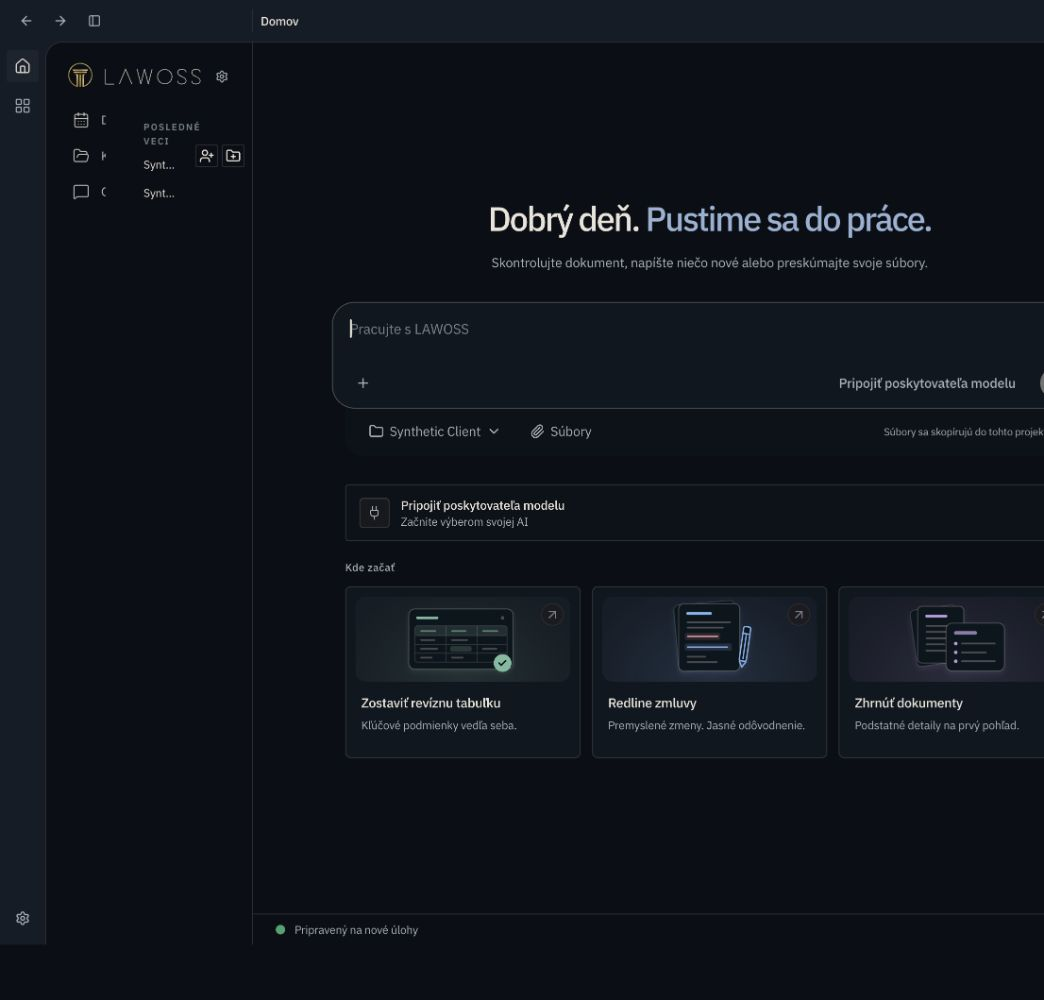
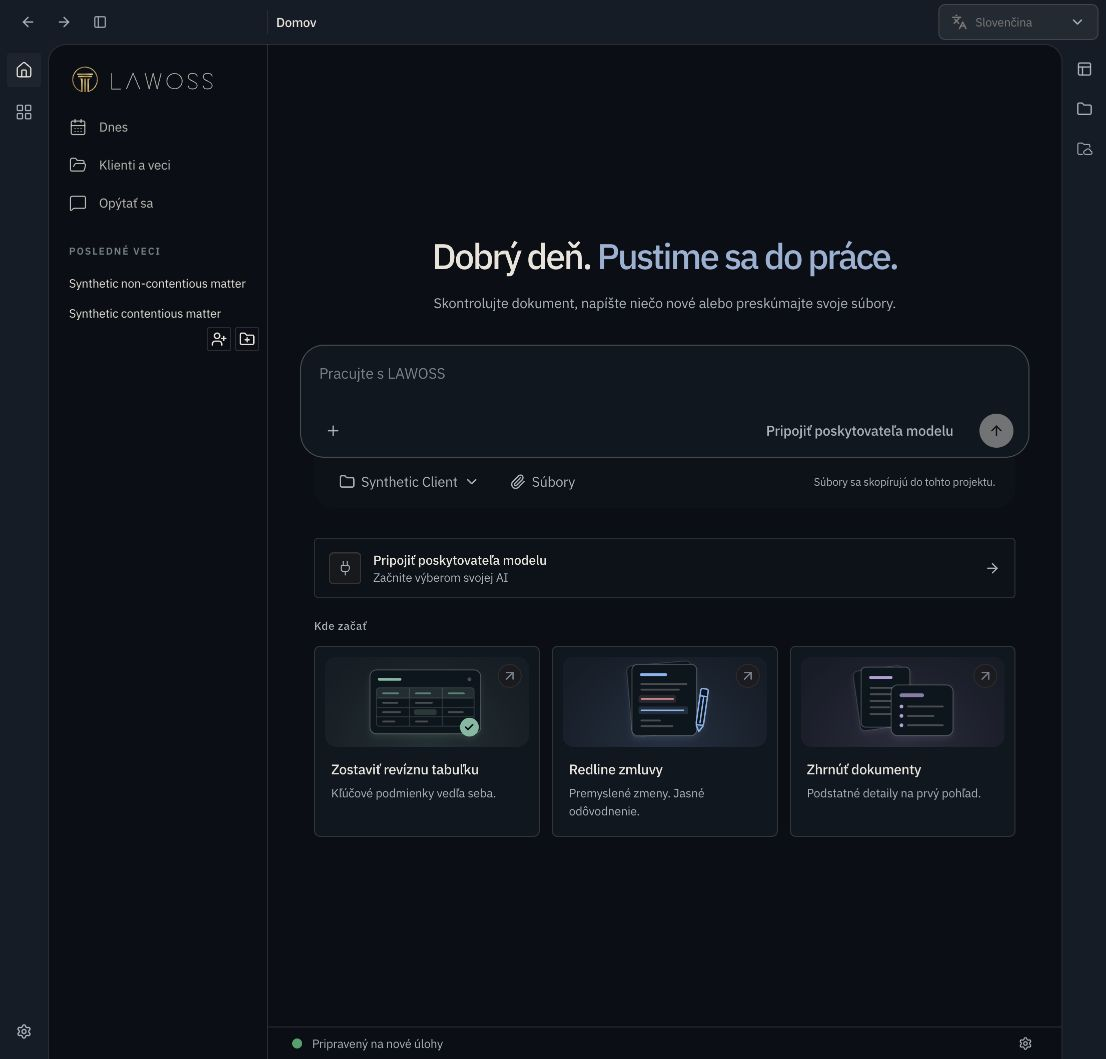
fix: opraviť klonovanie na Windows a rozloženie panela

diff --git a/lawoss/okf/bundle/okf.js b/lawoss/okf/bundle/okf.js
@@ -2408,7 +2408,7 @@ import { dirname as dirname4, isAbsolute as isAbsolute4, join as join8, relative
 // src/onboarding/entities.ts
 import { lstat as lstat4, readFile as readFile2, realpath as realpath4 } from "node:fs/promises";
 import { createHash as createHash4 } from "node:crypto";
-import { join as join6, resolve as resolve4 } from "node:path";
+import { basename as basename3, join as join6, resolve as resolve4 } from "node:path";
 
 // ../okf-pamat/src/store.ts
 import { existsSync as existsSync2, lstatSync, mkdirSync, readFileSync as readFileSync2, readdirSync, renameSync, rmSync, writeFileSync } from "node:fs";
@@ -2598,7 +2598,7 @@ async function planExistingClient(root, mode, cloneParent, map) {
   }
   if (!cloneParent)
     throw new Error("Trial clone parent is required.");
-  const target = join6(cloneParent, `${safeSegment(inspection.root.split("/").pop() ?? "client")} (trial ${new Date().toISOString().slice(0, 10)})`);
+  const target = join6(cloneParent, `${safeSegment(basename3(inspection.root) || "client")} (trial ${new Date().toISOString().slice(0, 10)})`);
   return { mode, appFiles: "inside", source: inspection.root, sourceDigest: inspection.digest, target, trial: true };
 }
 
@@ -2748,7 +2748,7 @@ async function applyTrialClone(preview, journalDirectory, resume = false) {
           await copyFile(sourcePath, target, constants4.COPYFILE_EXCL);
           if (await fileDigest(target) !== entry.digest)
             throw new Error("Trial copy digest mismatch.");
-          const handle = await open4(target, constants4.O_RDONLY | constants4.O_NOFOLLOW);
+          const handle = await open4(target, (process.platform === "win32" ? constants4.O_RDWR : constants4.O_RDONLY) | constants4.O_NOFOLLOW);
           try {
             await handle.sync();
           } finally {
@@ -3220,7 +3220,7 @@ var ENTITY_TYPES2 = ["klient", "spis", "projekt"];
 
 // src/fs.ts
 import { existsSync as existsSync3, lstatSync as lstatSync2, mkdirSync as mkdirSync2, readdirSync as readdirSync2, readFileSync as readFileSync3, statSync, writeFileSync as writeFileSync2 } from "node:fs";
-import { basename as basename3, dirname as dirname6, join as join9, relative as relative6, resolve as resolve8, sep as sep7 } from "node:path";
+import { basename as basename4, dirname as dirname6, join as join9, relative as relative6, resolve as resolve8, sep as sep7 } from "node:path";
 function readText(path) {
   return readFileSync3(path, "utf8");
 }
@@ -3360,7 +3360,7 @@ function validate(root) {
     if (workingPaths.some((path) => rel.startsWith(path)) || rel.split("/").some((part) => WORKING_FOLDERS.some((folder) => folder === part)) || rel.split("/").pop() === "BRAIN.md")
       continue;
     const parent = dirname6(join9(root, rel));
-    const bundleRoot = !rel.includes("/") || basename3(parent) === "memory" || ENTITY_TYPES.some((type) => CARD_ALIASES[type].some((name) => existsSync3(join9(parent, name))));
+    const bundleRoot = !rel.includes("/") || basename4(parent) === "memory" || ENTITY_TYPES.some((type) => CARD_ALIASES[type].some((name) => existsSync3(join9(parent, name))));
     const error = validateMarkdown(rel, readText(join9(root, rel)), bundleRoot);
     if (error)
       errors.push(error);
@@ -3417,7 +3417,7 @@ ${body}
 
 // src/naming-fs.ts
 import { closeSync as closeSync2, constants as constants7, fstatSync as fstatSync2, fsyncSync, lstatSync as lstatSync4, mkdirSync as mkdirSync3, openSync as openSync2, opendirSync, readSync as readSync2, realpathSync as realpathSync2, renameSync as renameSync2, unlinkSync, writeSync } from "node:fs";
-import { basename as basename4, dirname as dirname7, extname, isAbsolute as isAbsolute7, join as join10, relative as relative8, resolve as resolve10, sep as sep9 } from "node:path";
+import { basename as basename5, dirname as dirname7, extname, isAbsolute as isAbsolute7, join as join10, relative as relative8, resolve as resolve10, sep as sep9 } from "node:path";
 
 // ../okf-pamat/src/workspace-memory-fs.ts
 import { closeSync, constants as constants6, fstatSync, lstatSync as lstatSync3, openSync, readSync, realpathSync } from "node:fs";
@@ -3803,8 +3803,8 @@ function checkCase(path, shouldExist) {
     for (let entry = directory.readSync();entry; entry = directory.readSync()) {
       if (++count > 20000)
         conflict("Destination/path directory exceeds bounded case-check limit (20000 entries)");
-      if (fold(entry.name) === fold(basename4(path))) {
-        if (entry.name !== basename4(path) || !shouldExist)
+      if (fold(entry.name) === fold(basename5(path))) {
+        if (entry.name !== basename5(path) || !shouldExist)
           conflict(`Case-fold collision: ${path}`);
         found = true;
       }
@@ -4173,8 +4173,8 @@ function applyDocumentNaming(matterDir, input, hooks = {}) {
 function writeNamingPlanOutsideMatter(matterDir, output, plan) {
   const root = rootDirectory(matterDir), path = resolve10(output);
   checkedPath(dirname7(path), "directory");
-  const parent = realpathSync2(dirname7(path)), physicalOutput = join10(parent, basename4(path));
-  if (contained(root.path, physicalOutput) || !safeRelativePath(basename4(path)))
+  const parent = realpathSync2(dirname7(path)), physicalOutput = join10(parent, basename5(path));
+  if (contained(root.path, physicalOutput) || !safeRelativePath(basename5(path)))
     throw new NamingSchemaError("--out must be a new portable filename outside the matter root");
   checkCase(physicalOutput, false);
   exclusive(physicalOutput, JSON.stringify(plan, null, 2) + `

diff --git a/lawoss/okf/src/onboarding/entities.ts b/lawoss/okf/src/onboarding/entities.ts
@@ -1,6 +1,6 @@
 import { lstat, readFile, realpath } from "node:fs/promises";
 import { createHash } from "node:crypto";
-import { join, resolve } from "node:path";
+import { basename, join, resolve } from "node:path";
 import { inspectOnboardingRoot } from "./classify.ts";
 import { applyOnboardingPlan, type ApplyResult, type CreateOperation, type OnboardingPlan } from "./transaction.ts";
 import { planEntity } from "../core.ts";
@@ -95,6 +95,6 @@ export async function planExistingClient(root: string, mode: "map" | "trial_clon
     return { mode, appFiles: "outside", root: inspection.root, sourceDigest: inspection.digest, externalProfile: { version: 1, matterId, roots: [{ id: "client", path: inspection.root }], sources: [{ id: "existing_memory", root: "client", path: map.memoryPath, role: "case_memory", required: true, writable: false, anchors: [map.identityAnchor] }] } };
   }
   if (!cloneParent) throw new Error("Trial clone parent is required.");
-  const target = join(cloneParent, `${safeSegment(inspection.root.split("/").pop() ?? "client")} (trial ${new Date().toISOString().slice(0, 10)})`);
+  const target = join(cloneParent, `${safeSegment(basename(inspection.root) || "client")} (trial ${new Date().toISOString().slice(0, 10)})`);
   return { mode, appFiles: "inside", source: inspection.root, sourceDigest: inspection.digest, target, trial: true };
 }

diff --git a/lawoss/okf/src/onboarding/trial-clone.ts b/lawoss/okf/src/onboarding/trial-clone.ts
@@ -96,7 +96,8 @@ export async function applyTrialClone(preview: TrialClone, journalDirectory: str
           if (await realpath(sourcePath) !== sourcePath || !(await lstat(sourcePath)).isFile()) throw new Error("Trial source entry changed.");
           await copyFile(sourcePath, target, constants.COPYFILE_EXCL);
           if (await fileDigest(target) !== entry.digest) throw new Error("Trial copy digest mismatch.");
-          const handle = await open(target, constants.O_RDONLY | constants.O_NOFOLLOW); try { await handle.sync(); } finally { await handle.close(); }
+          // Windows FlushFileBuffers requires a handle opened with write access.
+          const handle = await open(target, (process.platform === "win32" ? constants.O_RDWR : constants.O_RDONLY) | constants.O_NOFOLLOW); try { await handle.sync(); } finally { await handle.close(); }
         }
         journal.owned.push({ path: entry.path, kind: entry.kind, identity: await identity(target, entry.kind), digest: entry.digest, size: entry.size });
         delete journal.intent; await save();

diff --git a/apps/app/src/react-app/domains/session/sidebar/app-sidebar.tsx b/apps/app/src/react-app/domains/session/sidebar/app-sidebar.tsx
@@ -797,7 +797,8 @@ export function AppSidebar(props: AppSidebarProps) {
             </Button>
           </div>
         </div>
-        <div className="flex items-center px-2"><LawossNav activePane={Boolean(props.activeNav)} /><OnboardingEntryActions compact /></div>
+        <LawossNav activePane={Boolean(props.activeNav)} />
+        <div className="flex justify-end px-2 pb-2"><OnboardingEntryActions compact /></div>
         <SidebarWorkflowGenerationBadge onOpenSession={(workspaceId, sessionId) => navigate(workspaceSessionRoute(workspaceId, sessionId))} />
         {!lite && newChatSection && <SidebarMenu className="px-2.5 pb-3 pt-1">{newChatSection}</SidebarMenu>}
         </div>

diff --git a/docs/lawoss-onboarding-core-2026-10-03.md b/docs/lawoss-onboarding-core-2026-10-03.md
@@ -32,7 +32,7 @@ Desktop pred štartom runtime odovzdá výber externého app storage a natívny 
 
 PR #88 ostáva samostatný rozsah pravidiel AI a nie je splnený týmto onboardingom. Safari MCP vrátil `Transport closed`, preto Safari kompatibilita nie je overená. Kontrola v Codex Browser prešla nad syntetickou kanceláriou: Office, klient, subjekt, oba druhy veci, návrat z natívnych AI nastavení, obnova náhľadu po reload/reštarte a opakovaný vstup z bočného panela. Pri šírke 860 px nebol horizontálny overflow. Fixture nemá bežiaci modelový engine, takže polling enginu hlásil nedostupnosť; tento priechod nedokazuje odpoveď modelu. Žiadny poskytovateľ ani platená inferencia sa neaktivovali.
 
-Zabalený lokálny build ešte podlieha izolovanej štartovacej kontrole. Nainštalovaná aplikácia ani produkčný profil neboli zmenené. Zmiešaný import workspace zostáva pre outside odmietnutý, pretože môže kombinovať aplikačné a dokumentové zápisy. Cloudové placeholdery, všetci poskytovatelia cloudu a odolnosť proti výpadku napájania nie sú akceptačne overené.
+Lokálny arm64 balík bol zostavený, ad-hoc podpísaný a izolovaný štartovací test aplikácie aj rendereru prešiel. Ide o lokálny testovací podpis, nie distribuovaný notarizovaný release. Nainštalovaná aplikácia ani produkčný profil neboli zmenené. Zmiešaný import workspace zostáva pre outside odmietnutý, pretože môže kombinovať aplikačné a dokumentové zápisy. Cloudové placeholdery, všetci poskytovatelia cloudu a odolnosť proti výpadku napájania nie sú akceptačne overené.
 
 ## Overenie
 
@@ -49,6 +49,7 @@ Node 24.19.0, pnpm 11.4.0, Bun 1.4.2. Testy používajú syntetické údaje.
 | Typecheck app, server, Electron, OKF a pamäte | PASS |
 | Build oboch prenosných CLI balíkov | PASS |
 | `pnpm --dir apps/app test:i18n` | PASS, 5 665 EN kľúčov, SK/CS/DE úplné |
+| `node scripts/i18n-audit.mjs --ci` | PASS |
 | `git diff --check`, root AGENTS/CLAUDE | PASS |
 
 Prvý serverový beh mal timeout štartu reálneho OAuth sidecar testu. Izolovaný test opakovane prešiel a následný celý serverový beh bol zelený. Po poslednom úzkom doplnení návratového subjektu boli znovu overené API testy a typecheck.
@@ -58,3 +59,9 @@ Prvý serverový beh mal timeout štartu reálneho OAuth sidecar testu. Izolovan
 ![Klient a obe veci po dokončení](evidence/onboarding-client-2026-10-03.jpg)
 
 Pokrytie zahŕňa klasifikáciu, stale tree, kolízie, recovery a rollback, binárny trial clone, mapovanie bez zápisu originálu, serverový trvalý ticket, scope profilov, presný Office grant, klientsku registráciu po recovery, externé app storage a scoped sessions.
+
+## Reprodukcia lokálneho balíka
+
+Použiť `pnpm --filter @legalwork/desktop build:electron`. Pri samostatnej obnove rendereru musí byť `LEGALWORK_ELECTRON_BUILD=1`; obyčajný webový build používa absolútne asset cesty, ktoré sa cez `file://` nenačítajú. Lokálne balenie používa `CSC_IDENTITY_AUTO_DISCOVERY=false` a explicitný ad-hoc podpis testovacieho artefaktu. `apps/desktop/scripts/packaged-startup-regression.mjs` vytvorí vlastný profil a workspace, overí rendererové ovládanie a odstráni iba svoj testovací profil.
+
+Windows CI pri skúšobnej kópii odhalilo delenie cesty iba na `/` a synchronizáciu súboru cez read-only handle. Názov teraz používa platformový `basename`; Windows otvára skopírovaný súbor na synchronizáciu aj so zápisovým prístupom. Testy sa neobchádzajú.
